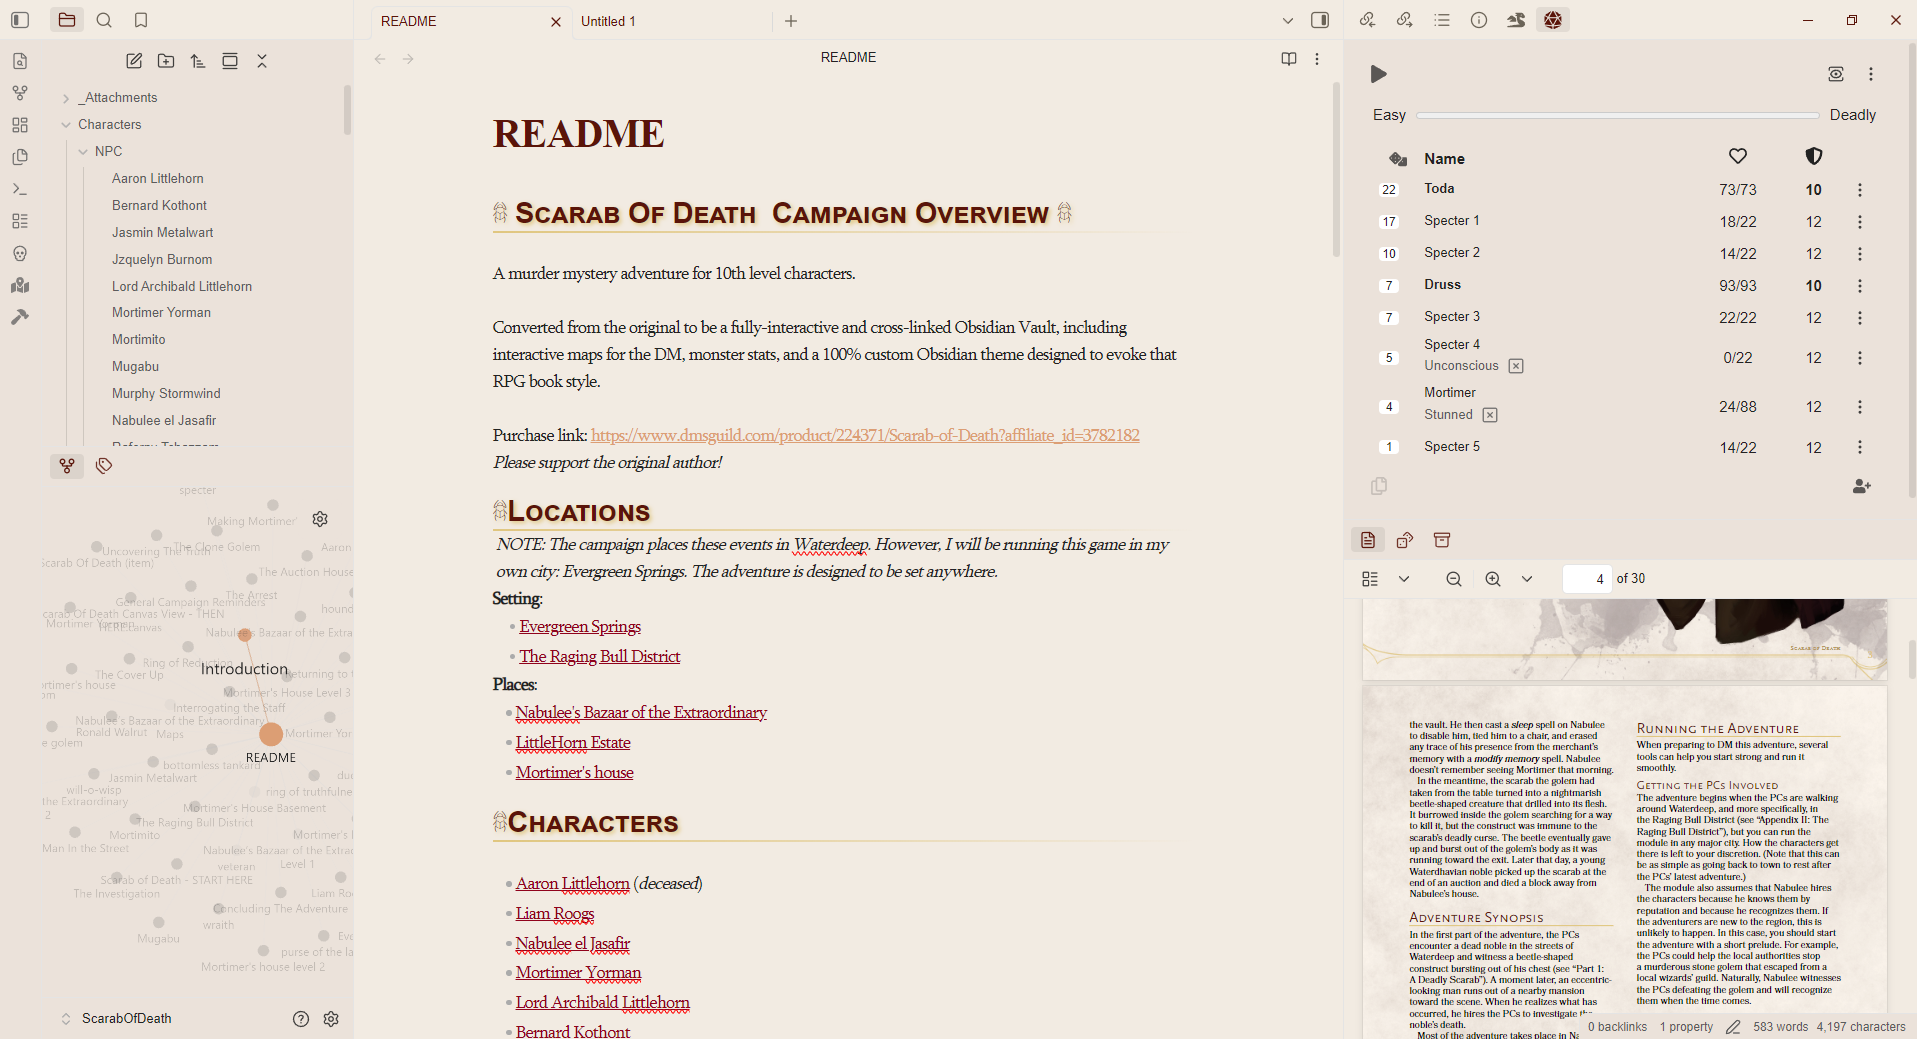
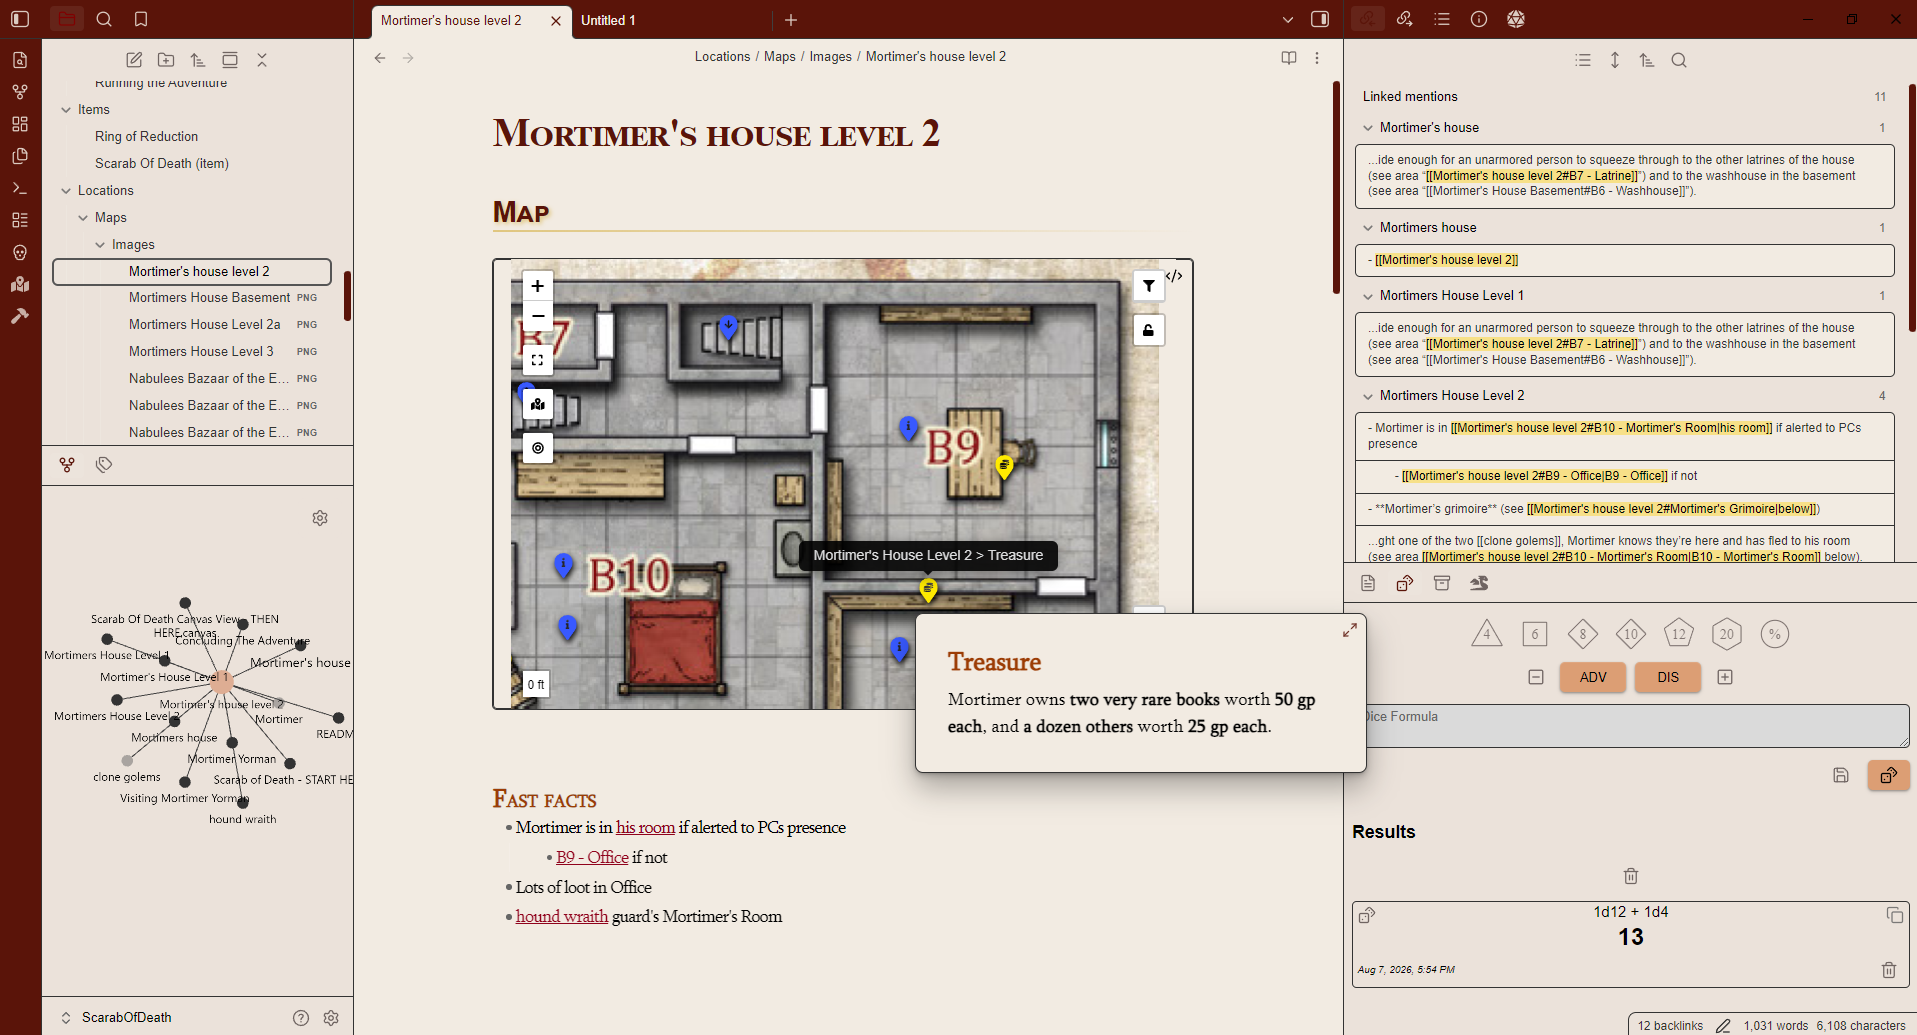
fixes to readme

diff --git a/README.md b/README.md
@@ -1,30 +1,34 @@
 
-# - Adventurer 
-![[Pasted image 20260807175601.png]]
+# Adventurer 
+![darkmode.png](Images/darkmode.png)
 Designed to reflect the design choices of popular tabletop adventure formats, Adventurer integrates beautifully with maps and PDFs to make running and documenting your next tabletop game easy and fun. 
 
 
 <a href='https://ko-fi.com/B7X324M4VG' target='_blank'><img height='36' style='border:0px;height:36px;' src='https://storage.ko-fi.com/cdn/kofi1.png?v=6' border='0' alt='Buy Me a Coffee at ko-fi.com' /></a>
 # Todo
 *Still need to finish some stuff*
-
+- [x] dark mode
 - [x] Move common things to `body` and out of `.dark-mode`, etc
-- [ ] fix collapsed ribbon color in dark mode
+- [x] fix collapsed ribbon color in dark mode
 - [ ] check callouts
-- [ ] "Dark" mode should be base theme and make a darker theme from the Canvas pallette?
-	- Began dark mode work
-- [ ] document palettes
-- [x] Fix extraneous text and icons 
+- [x] "Dark" mode should be base theme and make a darker theme from the Canvas pallette?
+- [x] document palettes
+- [x]] Fix extraneous text and icons 
 	- [x] settings menu titlebar
 	- [x] close/expand/minimize buttons
-# Screenshots
+
+
 ## Light Mode
-![[Pasted image 20260807175214.png]]
+![[lightmode.png]]
 
 ## Dark Mode
-![[Pasted image 20260807175601.png]]
+![[darkmode.png]]
 
 ## Canvas
 
-![[Pasted image 20260807175804.png]]
+### Light Mode
+![[canvas-light.png]]
+
+### Dark Mode
+![[canvas-dark.png]]
 
